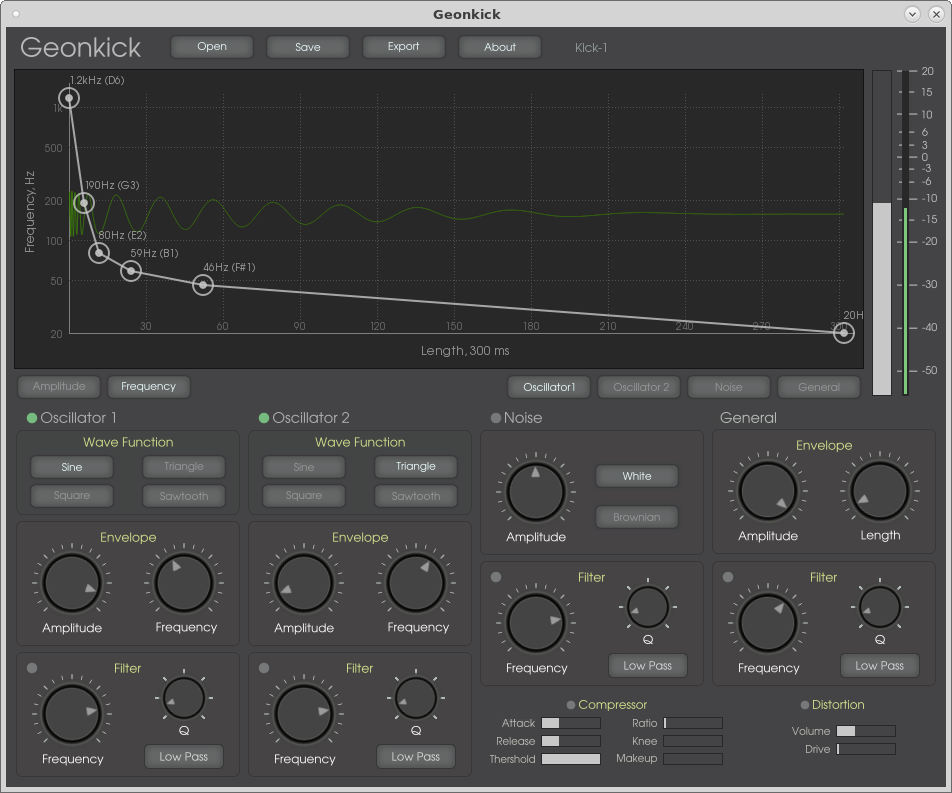
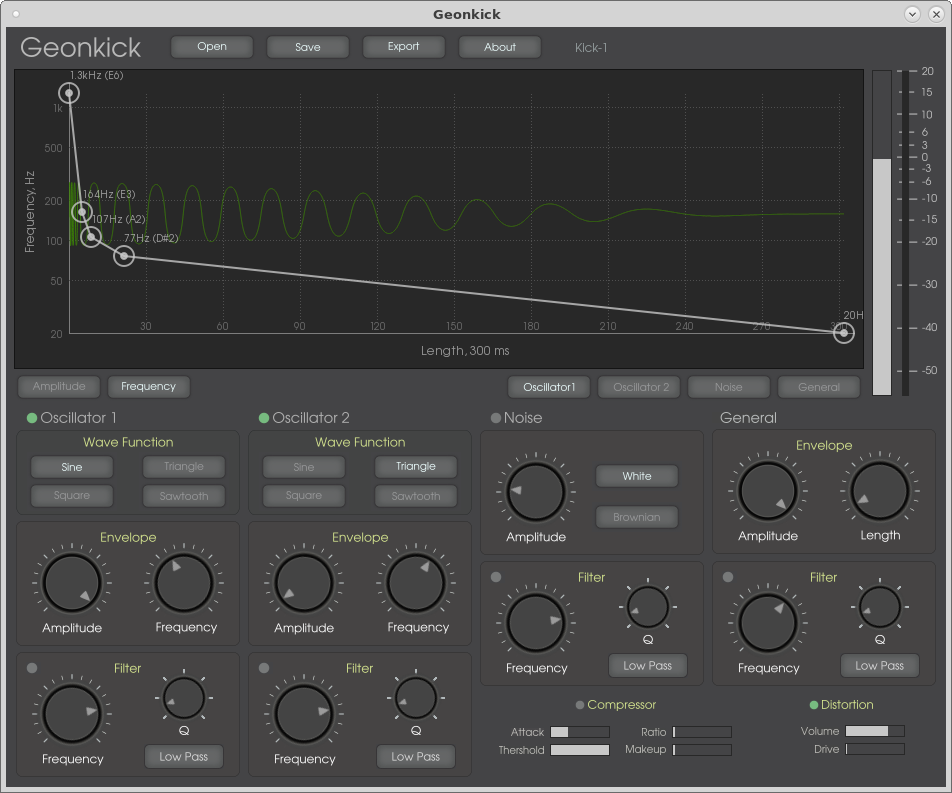
remove knee and release compressor controls

diff --git a/src/compressor_group_box.cpp b/src/compressor_group_box.cpp
@@ -33,10 +33,8 @@ CompressorGroupBox::CompressorGroupBox(GeonkickApi *api, GeonkickWidget *parent)
         : GeonkickGroupBox(parent),
           geonkickApi(api),
           attackSlider(nullptr),
-          releaseSlider(nullptr),
           thresholdSlider(nullptr),
           ratioSlider(nullptr),
-          kneeSlider(nullptr),
           makeupSlider(nullptr),
           compressorCheckbox(new GeonkickCheckbox(this))
 {
@@ -49,7 +47,6 @@ CompressorGroupBox::CompressorGroupBox(GeonkickApi *api, GeonkickWidget *parent)
         auto widget = new GeonkickWidget(this);
         addWidget(widget);
         auto gridLayout = new QGridLayout(widget);
-        gridLayout->setContentsMargins(0, 0, 0, 0);
         widget->setLayout(gridLayout);
 
         // Attack
@@ -62,23 +59,14 @@ CompressorGroupBox::CompressorGroupBox(GeonkickApi *api, GeonkickWidget *parent)
         attackSlider->setValue(50);
         gridLayout->addWidget(attackSlider, 0, 1, Qt::AlignLeft);
 
-        // Relsease
-        auto releaseLabel = new GeonkickLabel(widget);
-        releaseLabel->setImage(":/compressor_release_label.png");
-        gridLayout->addWidget(releaseLabel, 1, 0, Qt::AlignRight);
-        releaseSlider = new GeonkickSlider(widget);
-        connect(releaseSlider, SIGNAL(valueUpdated(int)), this, SLOT(setRelease(int)));
-        releaseSlider->setFixedSize(60, 12);
-        gridLayout->addWidget(releaseSlider, 1, 1, Qt::AlignLeft);
-
         // Threshold
         auto thresholdLabel = new GeonkickLabel(widget);
         thresholdLabel->setImage(":/compressor_threshold_label.png");
-        gridLayout->addWidget(thresholdLabel, 2, 0, Qt::AlignRight);
+        gridLayout->addWidget(thresholdLabel, 1, 0, Qt::AlignRight);
         thresholdSlider = new GeonkickSlider(widget);
         connect(thresholdSlider, SIGNAL(valueUpdated(int)), this, SLOT(setThreshold(int)));
         thresholdSlider->setFixedSize(60, 12);
-        gridLayout->addWidget(thresholdSlider, 2, 1, Qt::AlignLeft);
+        gridLayout->addWidget(thresholdSlider, 1, 1, Qt::AlignLeft);
         gridLayout->setColumnMinimumWidth(2, 10);
 
         // Ratio
@@ -90,23 +78,14 @@ CompressorGroupBox::CompressorGroupBox(GeonkickApi *api, GeonkickWidget *parent)
         ratioSlider->setFixedSize(60, 12);
         gridLayout->addWidget(ratioSlider, 0, 4, Qt::AlignLeft);
 
-        // Knee
-        auto kneeLabel = new GeonkickLabel(widget);
-        kneeLabel->setImage(":/compressor_knee_label.png");
-        gridLayout->addWidget(kneeLabel, 1, 3, Qt::AlignRight);
-        kneeSlider = new GeonkickSlider(widget);
-        connect(kneeSlider, SIGNAL(valueUpdated(int)), this, SLOT(setKnee(int)));
-        kneeSlider->setFixedSize(60, 12);
-        gridLayout->addWidget(kneeSlider, 1, 4, Qt::AlignLeft);
-
         // Makeup
         auto makeupLabel = new GeonkickLabel(widget);
         makeupLabel->setImage(":/compressor_makeup_label.png");
-        gridLayout->addWidget(makeupLabel, 2, 3, Qt::AlignRight);
+        gridLayout->addWidget(makeupLabel, 1, 3, Qt::AlignRight);
         makeupSlider = new GeonkickSlider(widget);
         connect(makeupSlider, SIGNAL(valueUpdated(int)), this, SLOT(setMakeup(int)));
         makeupSlider->setFixedSize(60, 12);
-        gridLayout->addWidget(makeupSlider, 2, 4, Qt::AlignLeft);
+        gridLayout->addWidget(makeupSlider, 1, 4, Qt::AlignLeft);
         update();
 }
 
@@ -116,14 +95,6 @@ void CompressorGroupBox::setAttack(int val)
                 geonkickApi->setCompressorAttack(0);
         else
                 geonkickApi->setCompressorAttack(pow(10, (static_cast<double>(val) / 100) * log10(2000)) / 1000);
-}
-
-void CompressorGroupBox::setRelease(int val)
-{
-        if (val == 0)
-                geonkickApi->setCompressorRelease(0);
-        else
-                geonkickApi->setCompressorRelease(pow(10, (static_cast<double>(val) / 100) * log10(2000)) / 1000);
 }
 
 void CompressorGroupBox::setThreshold(int val)
@@ -136,11 +107,6 @@ void CompressorGroupBox::setRatio(int val)
         geonkickApi->setCompressorRatio(20 * static_cast<double>(val) / 100);
 }
 
-void CompressorGroupBox::setKnee(int val)
-{
-        geonkickApi->setCompressorKnee(20 * (static_cast<double>(val) / 100));
-}
-
 void CompressorGroupBox::setMakeup(int val)
 {
         geonkickApi->setCompressorMakeup(36 * (static_cast<double>(val) / 100));
@@ -150,9 +116,7 @@ void CompressorGroupBox::update()
 {
         compressorCheckbox->setChecked(geonkickApi->isCompressorEnabled());
         attackSlider->setValue(100 * (log10(1000 * geonkickApi->getCompressorAttack()) / log10(2000)));
-        releaseSlider->setValue(100 * (log10(1000 * geonkickApi->getCompressorRelease()) / log10(2000)));
         thresholdSlider->setValue(100 * (1 - geonkickApi->getCompressorThreshold() / (-60)));
         ratioSlider->setValue(100 * geonkickApi->getCompressorRatio() / 20);
-        kneeSlider->setValue(100 * geonkickApi->getCompressorKnee() / 20);
         makeupSlider->setValue(100 * geonkickApi->getCompressorMakeup() / 36);
 }

diff --git a/api/src/compressor.c b/api/src/compressor.c
@@ -115,9 +115,9 @@ gkick_compressor_val(struct gkick_compressor *compressor,
 
         gkick_compressor_lock(compressor);
         threshold = pow(10, compressor->threshold / 20);
-        if (fabs(compressor->threshold) < DBL_EPSILON || compressor->ratio <= 1) {
+        if (fabs(compressor->threshold) < DBL_EPSILON || compressor->ratio < 1) {
                 gkick_compressor_unlock(compressor);
-                *out_val = in_val;
+                *out_val = compressor->makeup * in_val;
                 return GEONKICK_OK;
         }
 
@@ -156,6 +156,7 @@ gkick_compressor_val(struct gkick_compressor *compressor,
                 *out_val = in_val;
         }
 
+        *out_val *= compressor->makeup;
         gkick_compressor_unlock(compressor);
         *out_val = sign * (*out_val);
         return GEONKICK_OK;

diff --git a/src/compressor_group_box.h b/src/compressor_group_box.h
@@ -39,19 +39,15 @@ class CompressorGroupBox: public GeonkickGroupBox
  public slots:
          void update();
          void setAttack(int val);
-         void setRelease(int val);
          void setThreshold(int val);
          void setRatio(int val);
-         void setKnee(int val);
          void setMakeup(int val);
 
  private:
         GeonkickApi *geonkickApi;
         GeonkickSlider *attackSlider;
-        GeonkickSlider *releaseSlider;
         GeonkickSlider *thresholdSlider;
         GeonkickSlider *ratioSlider;
-        GeonkickSlider *kneeSlider;
         GeonkickSlider *makeupSlider;
         GeonkickCheckbox *compressorCheckbox;
 };

diff --git a/src/geonkick_api.cpp b/src/geonkick_api.cpp
@@ -79,7 +79,7 @@ std::shared_ptr<GeonkickState> GeonkickApi::getDefaultState()
         state->setCompressorThreshold(0);
         state->setCompressorRatio(1);
         state->setCompressorKnee(0);
-        state->setCompressorMakeup(0);
+        state->setCompressorMakeup(1);
         state->enableDistortion(false);
         state->setDistortionVolume(10);
         state->setDistortionDrive(0);
